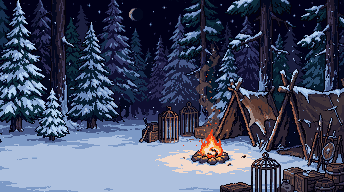
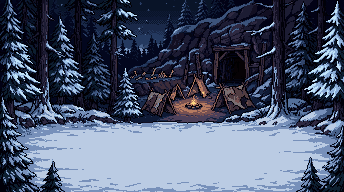
Nya bakgrunder: bron, vättelägret och spindelgången
Claude-Session: https://claude.ai/code/session_01E1AUD1R16VvpqkHNpZgpEB

diff --git a/bildlista.js b/bildlista.js
@@ -1,3 +1,3 @@
 /* Bland monster och tärningar – lista över alla bildfiler, så att spelet kan ladda dem i förväg.
    Lägger du till en ny bild som inte står här fungerar den ändå, men laddas först när den behövs. */
-window.BILDFILER={"figur":["askskelett","bandit","benjamin_bagskytt","benjamin_bard","benjamin_helare","benjamin_krigare","benjamin_magiker","benjamin_ninja","bjorn","bo","dimvarg","dimvasen","eldimp","eldprast","eldsalamander","ent","fange_1","fange_2","fange_3","fange_4","fladdermus","gargoyl","giftspindel","glod","glod_bur","greta","handlare","haxa","irrbloss","kobold","krak","krakor","kultist","lavahund","levande_rustning","linda_bagskytt","linda_bard","linda_helare","linda_krigare","linda_magiker","linda_ninja","magmaslem","nekromantiker","orm","ratta","resenar","rovarhovding","sally_katt","skelett","skuggling","slem","spindel","spoke","spokriddare","svampman","svante_bagskytt","svante_bard","svante_helare","svante_krigare","svante_magiker","svante_ninja","tomas_bagskytt","tomas_bard","tomas_helare","tomas_krigare","tomas_magiker","tomas_ninja","troll","vampyrfladdermus","varg","varulv","vatte","vattesjaman","vildsvin","ville_bagskytt","ville_bard","ville_helare","ville_krigare","ville_magiker","ville_ninja"],"boss":["basilisk","dimfrun","eldklo","ent","golem","grottroll","jattemask","mork_riddare","skuggan","vampyr"],"sak":["blackis","foremal","rumsaker","tigris","vapen_bagskytt","vapen_bard","vapen_helare","vapen_krigare","vapen_magiker","vapen_ninja"],"bakgrund":["berattelse_bro","berattelse_by","berattelse_gruva","berattelse_gruva_inne","berattelse_hem","berattelse_lager","berattelse_sal","berattelse_skog","berattelse_torg","grottorna_1_boss","grottorna_1_d1","grottorna_1_d2","grottorna_1_d3","grottorna_1_port","grottorna_1_rum","grottorna_2_boss","grottorna_2_d1","grottorna_2_d2","grottorna_2_d3","grottorna_2_port","grottorna_2_rum","herrgarden_1_boss","herrgarden_1_d1","herrgarden_1_d2","herrgarden_1_d3","herrgarden_1_port","herrgarden_1_rum","herrgarden_2_boss","herrgarden_2_d1","herrgarden_2_d2","herrgarden_2_d3","herrgarden_2_port","herrgarden_2_rum","kort_aventyr","kort_berattelse","kort_hjaltar","kort_lager","kort_monster","skogen_1_boss","skogen_1_d1","skogen_1_d2","skogen_1_d2_2","skogen_1_d3","skogen_1_port","skogen_1_rum","skogen_2_boss","skogen_2_d1","skogen_2_d2","skogen_2_d3","skogen_2_port","skogen_2_rum","slottet_1_boss","slottet_1_d1","slottet_1_d2","slottet_1_d3","slottet_1_port","slottet_1_rum","slottet_2_boss","slottet_2_d1","slottet_2_d2","slottet_2_d3","slottet_2_port","slottet_2_rum","vulkanen_1_boss","vulkanen_1_d1","vulkanen_1_d2","vulkanen_1_d3","vulkanen_1_port","vulkanen_1_rum","vulkanen_2_boss","vulkanen_2_d1","vulkanen_2_d2","vulkanen_2_d3","vulkanen_2_port","vulkanen_2_rum"],"ikon":["appikon","ikoner_1","ikoner_2","ikoner_3","ikoner_4"],"lager":["lager_eld_0","lager_eld_1","lager_eld_2","lager_eld_3","lager_ovning_0","lager_ovning_1","lager_ovning_2","lager_skatt_0","lager_skatt_1","lager_skatt_2","lager_smedja_0","lager_smedja_1","lager_smedja_2","lager_talt_0","lager_talt_1","lager_talt_2","lager_trofe_0","lager_trofe_1"]};
+window.BILDFILER={"figur":["askskelett","bandit","benjamin_bagskytt","benjamin_bard","benjamin_helare","benjamin_krigare","benjamin_magiker","benjamin_ninja","bjorn","bo","dimvarg","dimvasen","eldimp","eldprast","eldsalamander","ent","fange_1","fange_2","fange_3","fange_4","fladdermus","gargoyl","giftspindel","glod","glod_bur","greta","handlare","haxa","irrbloss","kobold","krak","krakor","kultist","lavahund","levande_rustning","linda_bagskytt","linda_bard","linda_helare","linda_krigare","linda_magiker","linda_ninja","magmaslem","nekromantiker","orm","ratta","resenar","rovarhovding","sally_katt","skelett","skuggling","slem","spindel","spoke","spokriddare","svampman","svante_bagskytt","svante_bard","svante_helare","svante_krigare","svante_magiker","svante_ninja","tomas_bagskytt","tomas_bard","tomas_helare","tomas_krigare","tomas_magiker","tomas_ninja","troll","vampyrfladdermus","varg","varulv","vatte","vattesjaman","vildsvin","ville_bagskytt","ville_bard","ville_helare","ville_krigare","ville_magiker","ville_ninja"],"boss":["basilisk","dimfrun","eldklo","ent","golem","grottroll","jattemask","mork_riddare","skuggan","vampyr"],"sak":["blackis","foremal","rumsaker","tigris","vapen_bagskytt","vapen_bard","vapen_helare","vapen_krigare","vapen_magiker","vapen_ninja"],"bakgrund":["berattelse_bro","berattelse_by","berattelse_gruva","berattelse_gruva_inne","berattelse_gruva_inne_spindel","berattelse_hem","berattelse_lager","berattelse_sal","berattelse_skog","berattelse_torg","grottorna_1_boss","grottorna_1_d1","grottorna_1_d2","grottorna_1_d3","grottorna_1_port","grottorna_1_rum","grottorna_2_boss","grottorna_2_d1","grottorna_2_d2","grottorna_2_d3","grottorna_2_port","grottorna_2_rum","herrgarden_1_boss","herrgarden_1_d1","herrgarden_1_d2","herrgarden_1_d3","herrgarden_1_port","herrgarden_1_rum","herrgarden_2_boss","herrgarden_2_d1","herrgarden_2_d2","herrgarden_2_d3","herrgarden_2_port","herrgarden_2_rum","kort_aventyr","kort_berattelse","kort_hjaltar","kort_lager","kort_monster","skogen_1_boss","skogen_1_d1","skogen_1_d2","skogen_1_d2_2","skogen_1_d3","skogen_1_port","skogen_1_rum","skogen_2_boss","skogen_2_d1","skogen_2_d2","skogen_2_d3","skogen_2_port","skogen_2_rum","slottet_1_boss","slottet_1_d1","slottet_1_d2","slottet_1_d3","slottet_1_port","slottet_1_rum","slottet_2_boss","slottet_2_d1","slottet_2_d2","slottet_2_d3","slottet_2_port","slottet_2_rum","vulkanen_1_boss","vulkanen_1_d1","vulkanen_1_d2","vulkanen_1_d3","vulkanen_1_port","vulkanen_1_rum","vulkanen_2_boss","vulkanen_2_d1","vulkanen_2_d2","vulkanen_2_d3","vulkanen_2_port","vulkanen_2_rum"],"ikon":["appikon","ikoner_1","ikoner_2","ikoner_3","ikoner_4"],"lager":["lager_eld_0","lager_eld_1","lager_eld_2","lager_eld_3","lager_ovning_0","lager_ovning_1","lager_ovning_2","lager_skatt_0","lager_skatt_1","lager_skatt_2","lager_smedja_0","lager_smedja_1","lager_smedja_2","lager_talt_0","lager_talt_1","lager_talt_2","lager_trofe_0","lager_trofe_1"]};

diff --git a/dev/bildlista.js b/dev/bildlista.js
@@ -1,3 +1,3 @@
 /* Bland monster och tärningar – lista över alla bildfiler, så att spelet kan ladda dem i förväg.
    Lägger du till en ny bild som inte står här fungerar den ändå, men laddas först när den behövs. */
-window.BILDFILER={"figur":["askskelett","bandit","benjamin_bagskytt","benjamin_bard","benjamin_helare","benjamin_krigare","benjamin_magiker","benjamin_ninja","bjorn","bo","dimvarg","dimvasen","eldimp","eldprast","eldsalamander","ent","fange_1","fange_2","fange_3","fange_4","fladdermus","gargoyl","giftspindel","glod","glod_bur","greta","handlare","haxa","irrbloss","kobold","krak","krakor","kultist","lavahund","levande_rustning","linda_bagskytt","linda_bard","linda_helare","linda_krigare","linda_magiker","linda_ninja","magmaslem","nekromantiker","orm","ratta","resenar","rovarhovding","sally_katt","skelett","skuggling","slem","spindel","spoke","spokriddare","svampman","svante_bagskytt","svante_bard","svante_helare","svante_krigare","svante_magiker","svante_ninja","tomas_bagskytt","tomas_bard","tomas_helare","tomas_krigare","tomas_magiker","tomas_ninja","troll","vampyrfladdermus","varg","varulv","vatte","vattesjaman","vildsvin","ville_bagskytt","ville_bard","ville_helare","ville_krigare","ville_magiker","ville_ninja"],"boss":["basilisk","dimfrun","eldklo","ent","golem","grottroll","jattemask","mork_riddare","skuggan","vampyr"],"sak":["blackis","foremal","rumsaker","tigris","vapen_bagskytt","vapen_bard","vapen_helare","vapen_krigare","vapen_magiker","vapen_ninja"],"bakgrund":["berattelse_bro","berattelse_by","berattelse_gruva","berattelse_gruva_inne","berattelse_hem","berattelse_lager","berattelse_sal","berattelse_skog","berattelse_torg","grottorna_1_boss","grottorna_1_d1","grottorna_1_d2","grottorna_1_d3","grottorna_1_port","grottorna_1_rum","grottorna_2_boss","grottorna_2_d1","grottorna_2_d2","grottorna_2_d3","grottorna_2_port","grottorna_2_rum","herrgarden_1_boss","herrgarden_1_d1","herrgarden_1_d2","herrgarden_1_d3","herrgarden_1_port","herrgarden_1_rum","herrgarden_2_boss","herrgarden_2_d1","herrgarden_2_d2","herrgarden_2_d3","herrgarden_2_port","herrgarden_2_rum","kort_aventyr","kort_berattelse","kort_hjaltar","kort_lager","kort_monster","skogen_1_boss","skogen_1_d1","skogen_1_d2","skogen_1_d2_2","skogen_1_d3","skogen_1_port","skogen_1_rum","skogen_2_boss","skogen_2_d1","skogen_2_d2","skogen_2_d3","skogen_2_port","skogen_2_rum","slottet_1_boss","slottet_1_d1","slottet_1_d2","slottet_1_d3","slottet_1_port","slottet_1_rum","slottet_2_boss","slottet_2_d1","slottet_2_d2","slottet_2_d3","slottet_2_port","slottet_2_rum","vulkanen_1_boss","vulkanen_1_d1","vulkanen_1_d2","vulkanen_1_d3","vulkanen_1_port","vulkanen_1_rum","vulkanen_2_boss","vulkanen_2_d1","vulkanen_2_d2","vulkanen_2_d3","vulkanen_2_port","vulkanen_2_rum"],"ikon":["appikon","ikoner_1","ikoner_2","ikoner_3","ikoner_4"],"lager":["lager_eld_0","lager_eld_1","lager_eld_2","lager_eld_3","lager_ovning_0","lager_ovning_1","lager_ovning_2","lager_skatt_0","lager_skatt_1","lager_skatt_2","lager_smedja_0","lager_smedja_1","lager_smedja_2","lager_talt_0","lager_talt_1","lager_talt_2","lager_trofe_0","lager_trofe_1"]};
+window.BILDFILER={"figur":["askskelett","bandit","benjamin_bagskytt","benjamin_bard","benjamin_helare","benjamin_krigare","benjamin_magiker","benjamin_ninja","bjorn","bo","dimvarg","dimvasen","eldimp","eldprast","eldsalamander","ent","fange_1","fange_2","fange_3","fange_4","fladdermus","gargoyl","giftspindel","glod","glod_bur","greta","handlare","haxa","irrbloss","kobold","krak","krakor","kultist","lavahund","levande_rustning","linda_bagskytt","linda_bard","linda_helare","linda_krigare","linda_magiker","linda_ninja","magmaslem","nekromantiker","orm","ratta","resenar","rovarhovding","sally_katt","skelett","skuggling","slem","spindel","spoke","spokriddare","svampman","svante_bagskytt","svante_bard","svante_helare","svante_krigare","svante_magiker","svante_ninja","tomas_bagskytt","tomas_bard","tomas_helare","tomas_krigare","tomas_magiker","tomas_ninja","troll","vampyrfladdermus","varg","varulv","vatte","vattesjaman","vildsvin","ville_bagskytt","ville_bard","ville_helare","ville_krigare","ville_magiker","ville_ninja"],"boss":["basilisk","dimfrun","eldklo","ent","golem","grottroll","jattemask","mork_riddare","skuggan","vampyr"],"sak":["blackis","foremal","rumsaker","tigris","vapen_bagskytt","vapen_bard","vapen_helare","vapen_krigare","vapen_magiker","vapen_ninja"],"bakgrund":["berattelse_bro","berattelse_by","berattelse_gruva","berattelse_gruva_inne","berattelse_gruva_inne_spindel","berattelse_hem","berattelse_lager","berattelse_sal","berattelse_skog","berattelse_torg","grottorna_1_boss","grottorna_1_d1","grottorna_1_d2","grottorna_1_d3","grottorna_1_port","grottorna_1_rum","grottorna_2_boss","grottorna_2_d1","grottorna_2_d2","grottorna_2_d3","grottorna_2_port","grottorna_2_rum","herrgarden_1_boss","herrgarden_1_d1","herrgarden_1_d2","herrgarden_1_d3","herrgarden_1_port","herrgarden_1_rum","herrgarden_2_boss","herrgarden_2_d1","herrgarden_2_d2","herrgarden_2_d3","herrgarden_2_port","herrgarden_2_rum","kort_aventyr","kort_berattelse","kort_hjaltar","kort_lager","kort_monster","skogen_1_boss","skogen_1_d1","skogen_1_d2","skogen_1_d2_2","skogen_1_d3","skogen_1_port","skogen_1_rum","skogen_2_boss","skogen_2_d1","skogen_2_d2","skogen_2_d3","skogen_2_port","skogen_2_rum","slottet_1_boss","slottet_1_d1","slottet_1_d2","slottet_1_d3","slottet_1_port","slottet_1_rum","slottet_2_boss","slottet_2_d1","slottet_2_d2","slottet_2_d3","slottet_2_port","slottet_2_rum","vulkanen_1_boss","vulkanen_1_d1","vulkanen_1_d2","vulkanen_1_d3","vulkanen_1_port","vulkanen_1_rum","vulkanen_2_boss","vulkanen_2_d1","vulkanen_2_d2","vulkanen_2_d3","vulkanen_2_port","vulkanen_2_rum"],"ikon":["appikon","ikoner_1","ikoner_2","ikoner_3","ikoner_4"],"lager":["lager_eld_0","lager_eld_1","lager_eld_2","lager_eld_3","lager_ovning_0","lager_ovning_1","lager_ovning_2","lager_skatt_0","lager_skatt_1","lager_skatt_2","lager_smedja_0","lager_smedja_1","lager_smedja_2","lager_talt_0","lager_talt_1","lager_talt_2","lager_trofe_0","lager_trofe_1"]};

diff --git a/dev/sw.js b/dev/sw.js
@@ -4,7 +4,7 @@
 // Samma fil används i dev-kopian (mappen dev/). Den får en egen cache så att de inte stör varandra.
 const DEV = /\/dev\//.test(location.pathname);
 const PREFIX = DEV ? "tarningsriket-dev-" : "tarningsriket-v";
-const CACHE = PREFIX + "19";
+const CACHE = PREFIX + "20";
 const SHELL = ["./", "./index.html", "./aventyr.js", "./texter.js", "./scener.js", "./lager.js", "./ikoner.js", "./fx.js", "./gosedjur.js", "./bilder.js", "./figurval.js", "./bildlista.js", "./manifest.json", "./icons/icon-180.png", "./icons/icon-192.png", "./icons/icon-512.png"];
 
 self.addEventListener("install", e => {

diff --git a/sw.js b/sw.js
@@ -4,7 +4,7 @@
 // Samma fil används i dev-kopian (mappen dev/). Den får en egen cache så att de inte stör varandra.
 const DEV = /\/dev\//.test(location.pathname);
 const PREFIX = DEV ? "tarningsriket-dev-" : "tarningsriket-v";
-const CACHE = PREFIX + "19";
+const CACHE = PREFIX + "20";
 const SHELL = ["./", "./index.html", "./aventyr.js", "./texter.js", "./scener.js", "./lager.js", "./ikoner.js", "./fx.js", "./gosedjur.js", "./bilder.js", "./figurval.js", "./bildlista.js", "./manifest.json", "./icons/icon-180.png", "./icons/icon-192.png", "./icons/icon-512.png"];
 
 self.addEventListener("install", e => {
